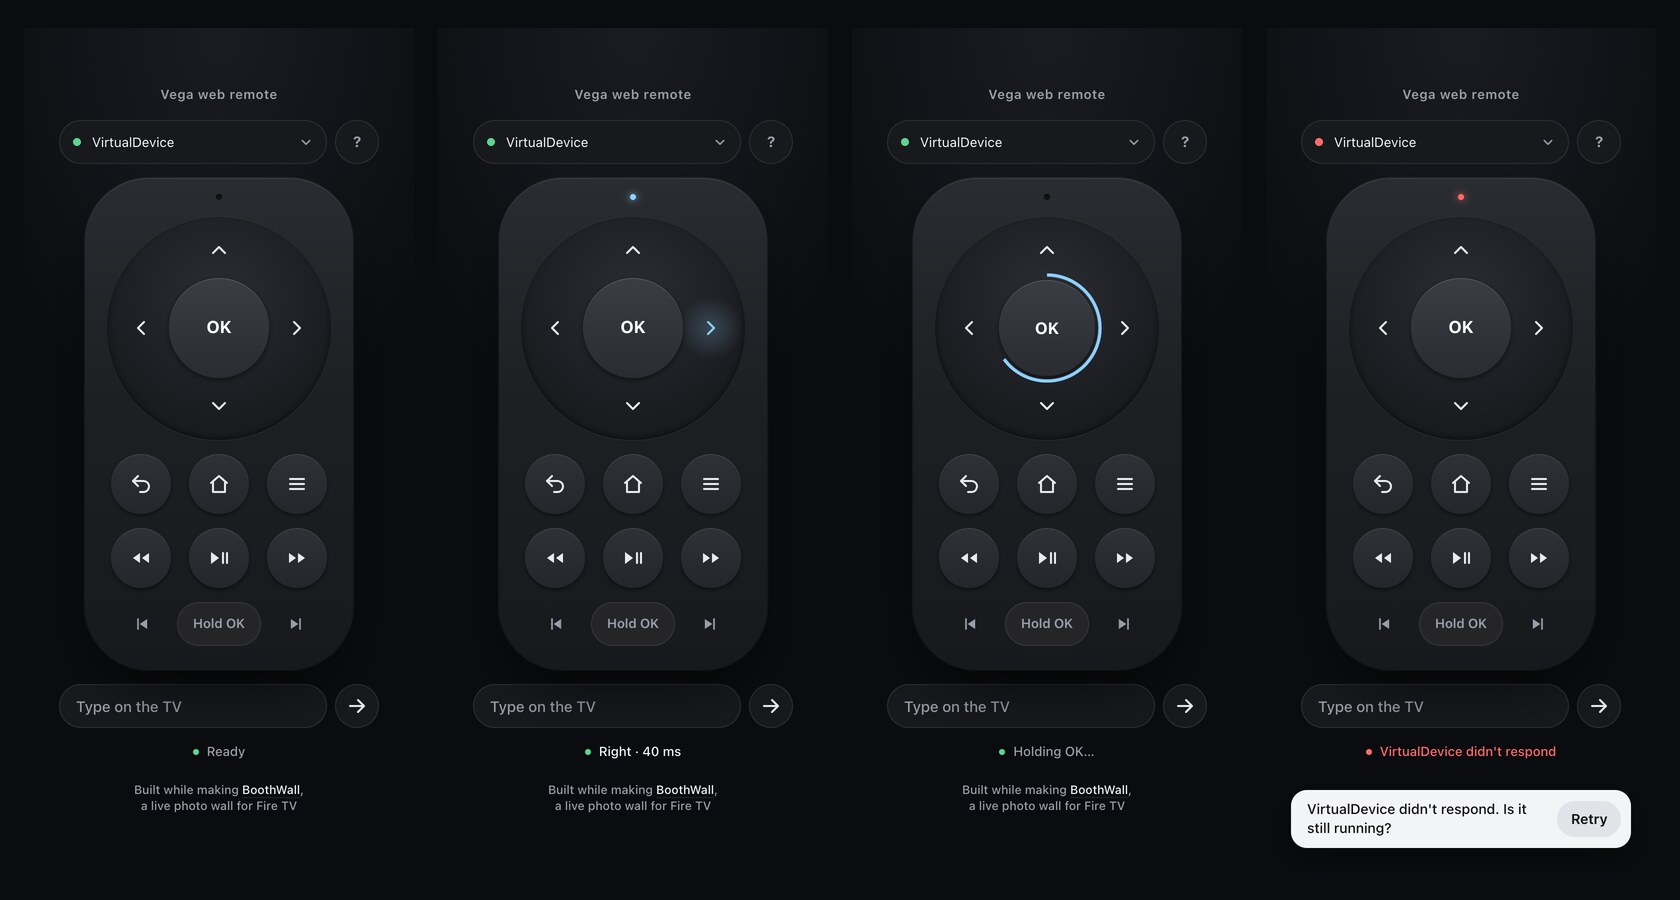
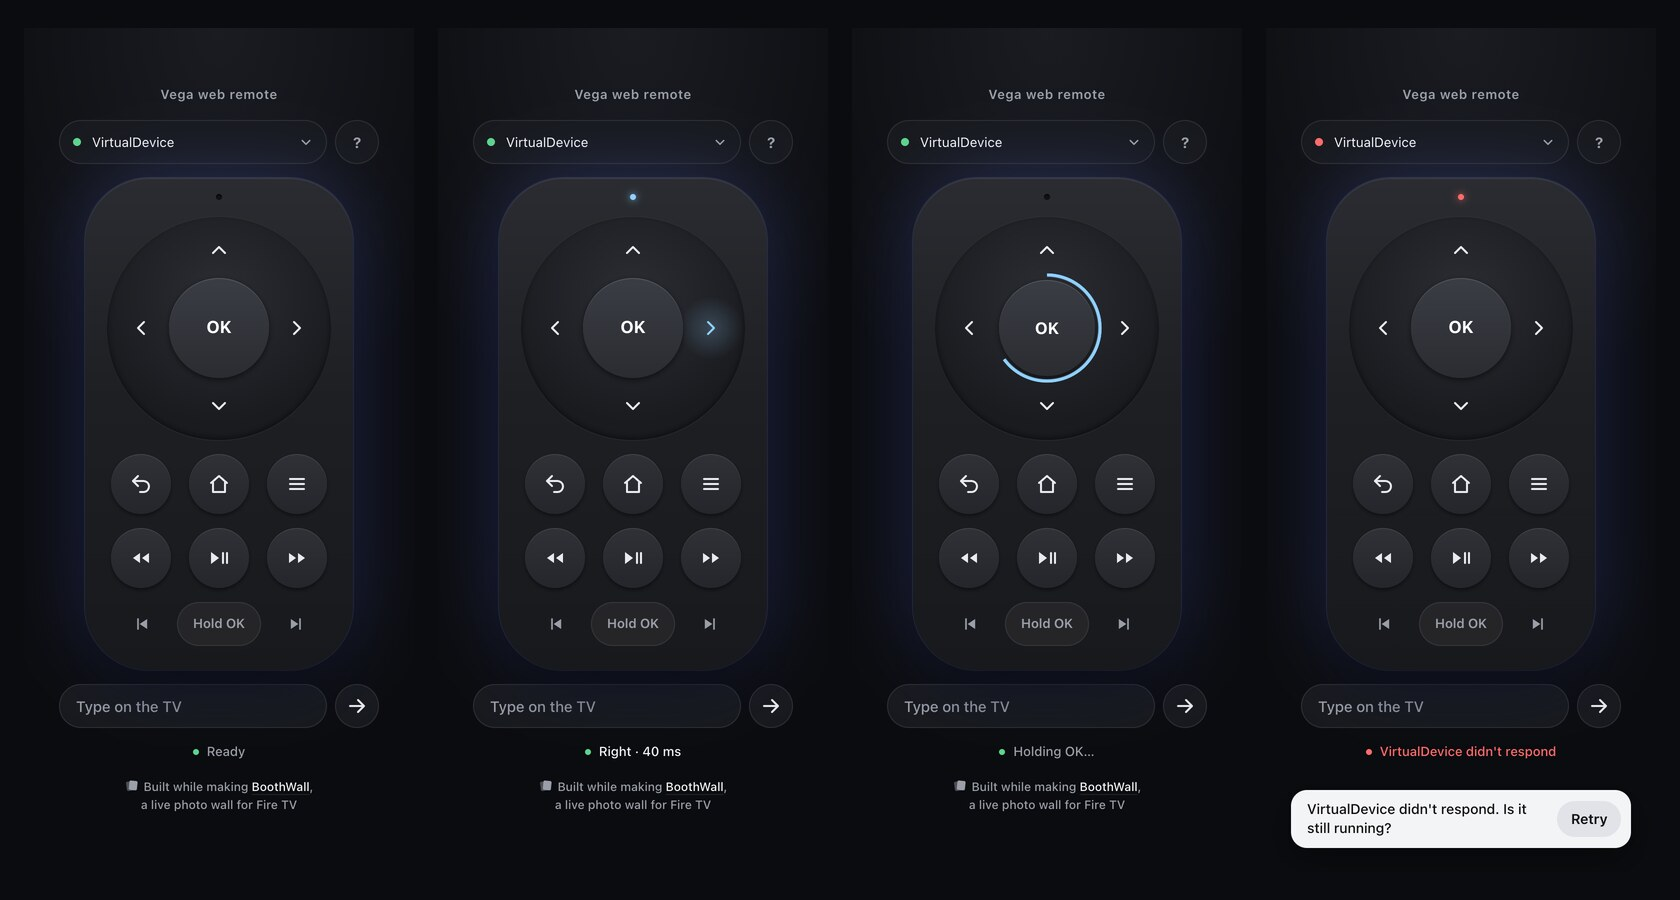
feat: a soft backlight behind the remote, and a credit mark (lab-r5 option 3)

diff --git a/src/ui/remote.css b/src/ui/remote.css
@@ -2,11 +2,11 @@
    Every colour is a token here, so a new tint is a swap of this block. */
 :root {
   /* page and text */
-  --page: radial-gradient(120% 80% at 50% 0%, #1a1c22 0%, #0b0c0f 60%); --ink: #f3f4f6; --muted: #9a9ea8; --icon: #e9eaee;
+  --page: radial-gradient(36% 40% at 50% 46%, rgb(98 120 255/.24), transparent 70%), radial-gradient(120% 80% at 50% 0%, #1a1c22 0%, #0b0c0f 60%); --ink: #f3f4f6; --muted: #9a9ea8; --icon: #e9eaee;
   --line: rgb(255 255 255/.09); --chip: #17191d; --card: #1b1d22; --overlay-shadow: rgb(0 0 0/.35); --backdrop: rgb(0 0 0/.5);
   /* remote body */
   --body: linear-gradient(180deg, #2a2c31 0%, #1d1f23 45%, #18191c 100%);
-  --body-shadow: 0 30px 60px -20px rgb(0 0 0/.7), 0 0 0 1px rgb(255 255 255/.06), inset 0 1px 0 rgb(255 255 255/.08);
+  --body-shadow: 0 30px 60px -20px rgb(0 0 0/.7), 0 0 0 1px rgb(150 170 255/.14), 0 0 80px -10px rgb(98 120 255/.35), inset 0 1px 0 rgb(255 255 255/.08);
   /* D-pad, OK and keys: face, edge and shadow */
   --pad: radial-gradient(circle at 50% 35%, #2b2d33, #1a1b1f 70%); --pad-shadow: inset 0 1px 0 rgb(255 255 255/.07), inset 0 -2px 6px rgb(0 0 0/.5), 0 1px 0 rgb(255 255 255/.04);
   --okbg: linear-gradient(180deg, #3a3d44, #2a2c31); --okink: #fff; --ok-shadow: 0 2px 6px rgb(0 0 0/.55), inset 0 1px 0 rgb(255 255 255/.12);

diff --git a/src/ui/base.css b/src/ui/base.css
@@ -96,8 +96,9 @@ svg .f { fill: currentColor; stroke: none; }
 @media (prefers-reduced-motion: reduce) { *, *::before, *::after { animation: none !important; transition: none !important; } }
 @media (min-width: 900px) { .app { width: 340px; } }
 /* credit */
-.credit { margin: 6px 0 0; text-align: center; text-wrap: balance; font-size: 12px; color: var(--muted); }
-.credit a { color: var(--ink); text-decoration: underline; text-decoration-color: var(--line); text-underline-offset: 3px; }
+.credit { margin: 2px 0 0; text-align: center; text-wrap: balance; font-size: 12px; line-height: 1.5; color: var(--muted); }
+.credit .bw { width: 14px; height: 14px; margin-right: 5px; vertical-align: -2px; fill: currentColor; }
+.credit a { padding: 12px 0; color: var(--ink); text-decoration: underline; text-decoration-color: var(--line); text-underline-offset: 3px; }
 .credit a:hover { text-decoration-color: currentColor; }
 body:has(.toast:not([hidden])) .credit { visibility: hidden; }
 .brand { margin: 0 0 2px; text-align: center; font-size: 13px; font-weight: 600; letter-spacing: .04em; color: var(--muted); }

diff --git a/src/ui/index.html b/src/ui/index.html
@@ -56,7 +56,7 @@
   </form>
 
   <p class="status" role="status"><span class="led" aria-hidden="true"></span><span id="line">Looking for devices…</span></p>
-  <p class="credit">Built while making <a href="https://oss.boothwall.com" target="_blank" rel="noopener">BoothWall</a>, a live photo wall for Fire&nbsp;TV</p>
+  <p class="credit"><svg class="bw" viewBox="0 0 24 24" aria-hidden="true"><rect x="3.5" y="5" width="12" height="14" rx="1.5" transform="rotate(-8 9.5 12)" opacity=".45"/><rect x="8" y="4" width="12" height="14" rx="1.5" transform="rotate(6 14 11)"/></svg>Built while making <a href="https://oss.boothwall.com" target="_blank" rel="noopener">BoothWall</a>, a live photo wall for Fire&nbsp;TV</p>
 
   <div id="toast" class="toast" role="alert" hidden>
     <span id="toast-text"></span>

diff --git a/CHANGELOG.md b/CHANGELOG.md
@@ -11,6 +11,7 @@ A new look: the remote now looks and reads like a TV remote.
 ### Changed
 
 - The keys sit in a remote body in the order of a TV remote: the D-pad and OK, then Back, Home and Menu, then Rewind, Play/Pause and Fast-forward, then Previous, Hold OK and Next. It is the same column on a phone and on a desktop.
+- A soft blue backlight glows behind the remote.
 - One status line replaces the error text: the last press and its round trip (**Right · 41 ms**), **Holding OK…**, or what went wrong.
 - The text field is called **Type on the TV**, and text it won't accept says why instead of being sent.
 
